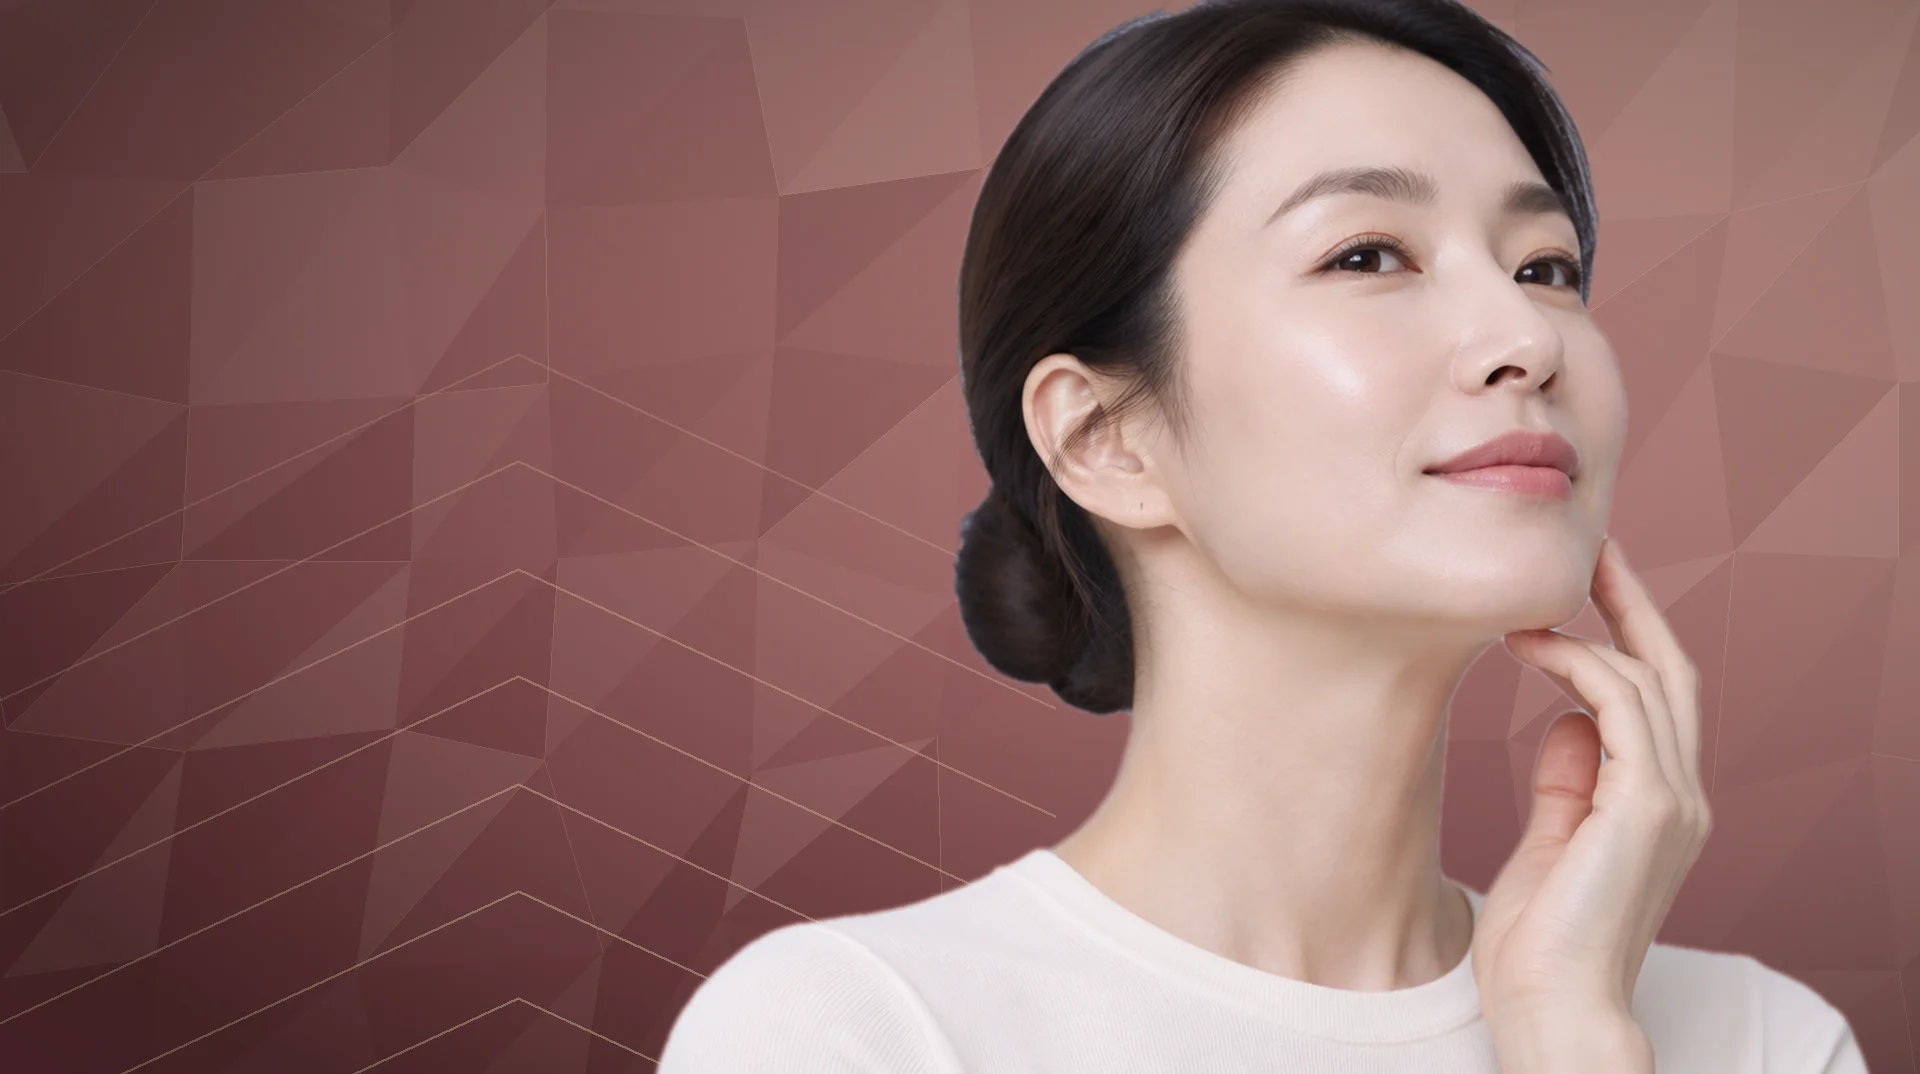
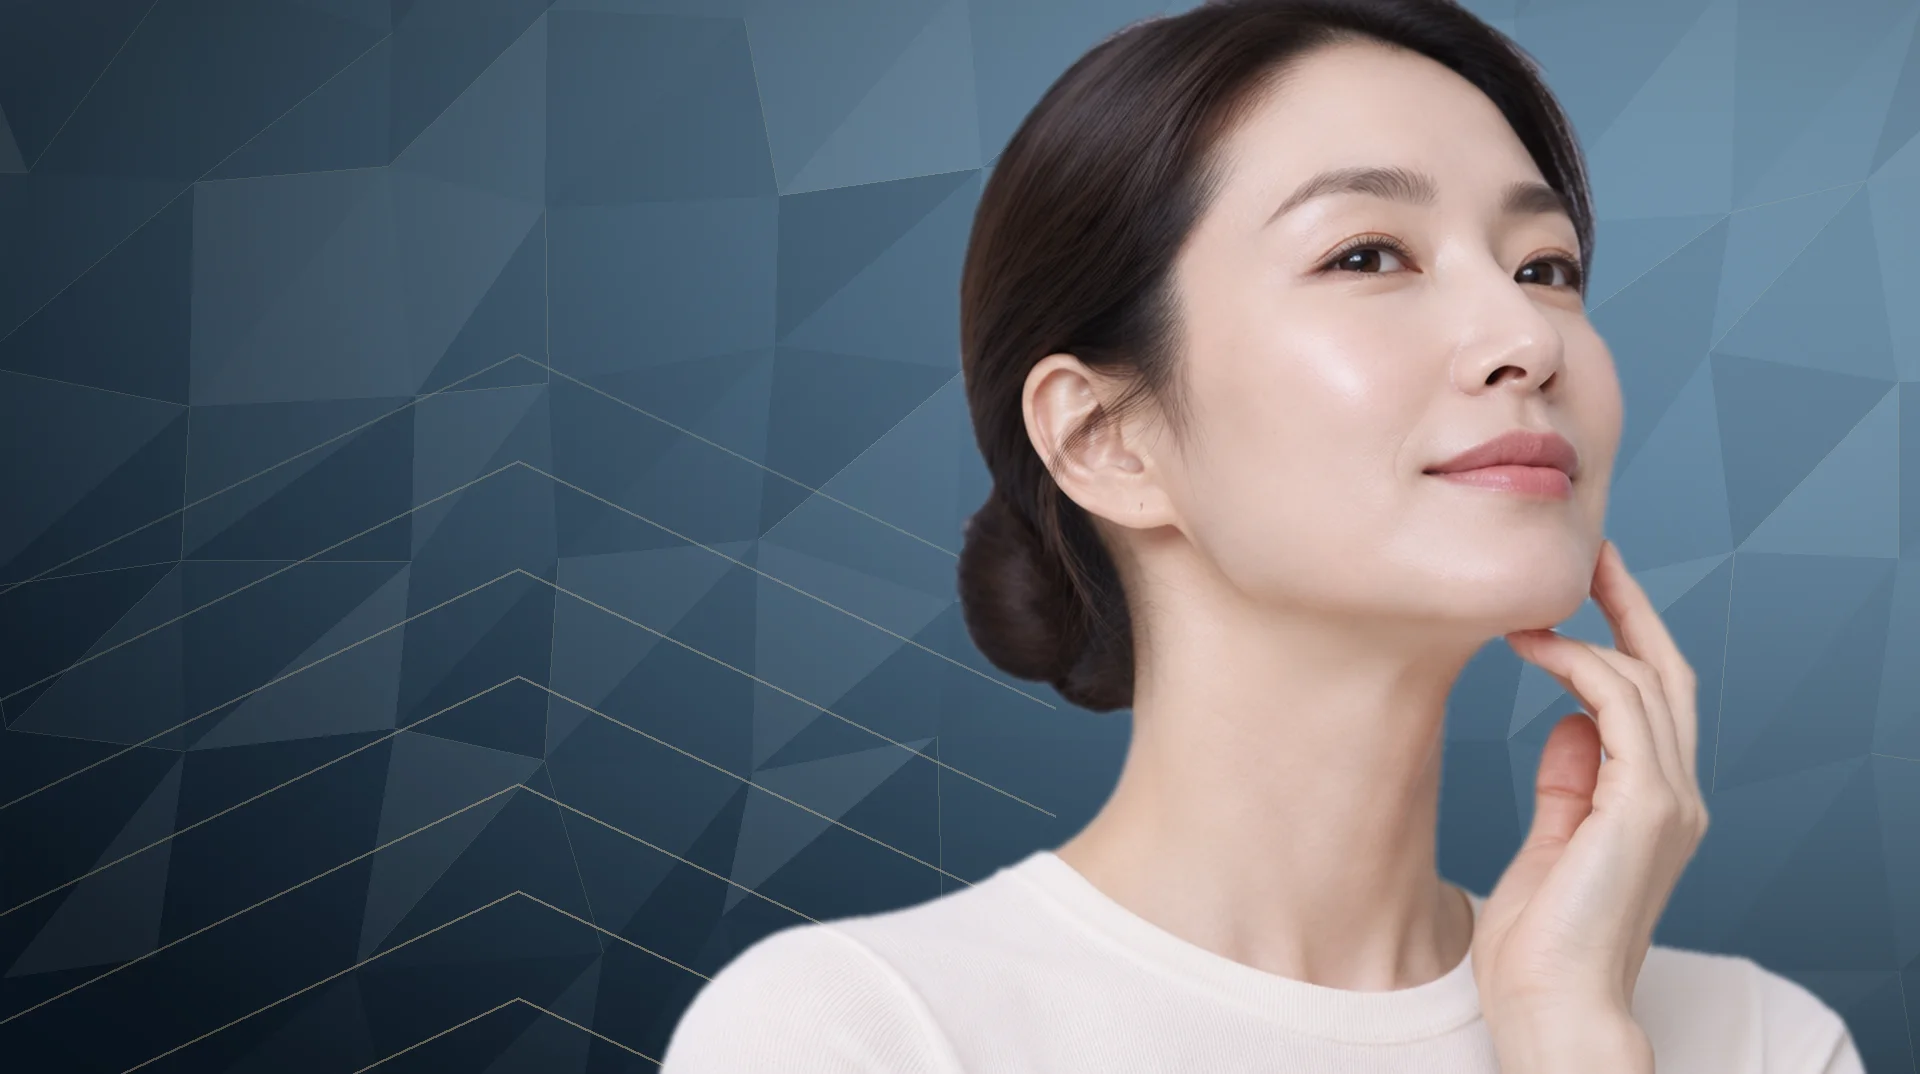
시술 페이지 색상을 남색·하늘색·샴페인 골드로 변경 (기존 사이트와 통일)
Claude-Session: https://claude.ai/code/session_01UX5joi9cmYMXJoy5sRGPBk

diff --git a/src/styles/global.css b/src/styles/global.css
@@ -1,10 +1,10 @@
 /* LUCENT 토큰: lucent-derm과 같은 값을 쓴다. */
 :root {
   --pearl: #FFFFFF;
-  --accent: #9A4A52;
-  --accent-deep: #6E2F37;
-  --accent-soft: #FBF1EA;
-  --pop: #E9CF9E;
+  --accent: #2E5A80;
+  --accent-deep: #14283A;
+  --accent-soft: #EAF3F9;
+  --pop: #E3C48E;
   --ink: #182832;
   --muted: #52616C;
   --ice: #E7EFF3;
@@ -71,10 +71,10 @@ ul, ol { list-style: none; }
   display: inline-flex; align-items: center; justify-content: center; gap: 8px;
   min-height: 52px; padding: 0 28px; border-radius: 999px; border: 1px solid var(--ink);
   background: var(--accent); border-color: var(--accent); color: #fff; font-weight: 700; text-decoration: none; cursor: pointer;
-  box-shadow: 0 10px 24px rgb(110 47 55 / .30);
+  box-shadow: 0 10px 24px rgb(20 40 58 / .30);
   transition: transform .3s var(--ease), background-color .3s, box-shadow .3s;
 }
-.button:hover { background: var(--accent-deep); box-shadow: 0 14px 30px rgb(110 47 55 / .38); }
+.button:hover { background: var(--accent-deep); box-shadow: 0 14px 30px rgb(20 40 58 / .38); }
 .button:hover { transform: translateY(-2px); }
 .button--ghost { background: transparent; color: var(--ink); border-color: var(--ink); box-shadow: none; }
 .button--ghost:hover { background: var(--accent-soft); box-shadow: none; }

diff --git a/src/components/ConsultForm.vue b/src/components/ConsultForm.vue
@@ -82,7 +82,7 @@ legend { font-size: 14px; color: var(--muted); margin-bottom: 10px; }
 .field input[aria-invalid='true'] { border-color: #b3402a; }
 .err { min-height: 1.4em; font-size: 13px; color: #b3402a; }
 .agree { display: flex; gap: 10px; align-items: flex-start; font-size: 13px; color: var(--muted); margin: 6px 0 2px; }
-.submit { width: 100%; min-height: 56px; margin-top: 10px; border: 0; border-radius: 999px; background: var(--accent); box-shadow: 0 10px 24px rgb(110 47 55 / .28); color: #fff; font-weight: 700; font-size: 16px; cursor: pointer; }
+.submit { width: 100%; min-height: 56px; margin-top: 10px; border: 0; border-radius: 999px; background: var(--accent); box-shadow: 0 10px 24px rgb(20 40 58 / .28); color: #fff; font-weight: 700; font-size: 16px; cursor: pointer; }
 .done h3 { font-family: var(--font-serif); margin-bottom: 10px; }
 .done p { color: var(--muted); }
 .ghost { margin-top: 20px; border: 1px solid var(--ink); background: transparent; border-radius: 999px; padding: 12px 24px; cursor: pointer; }
